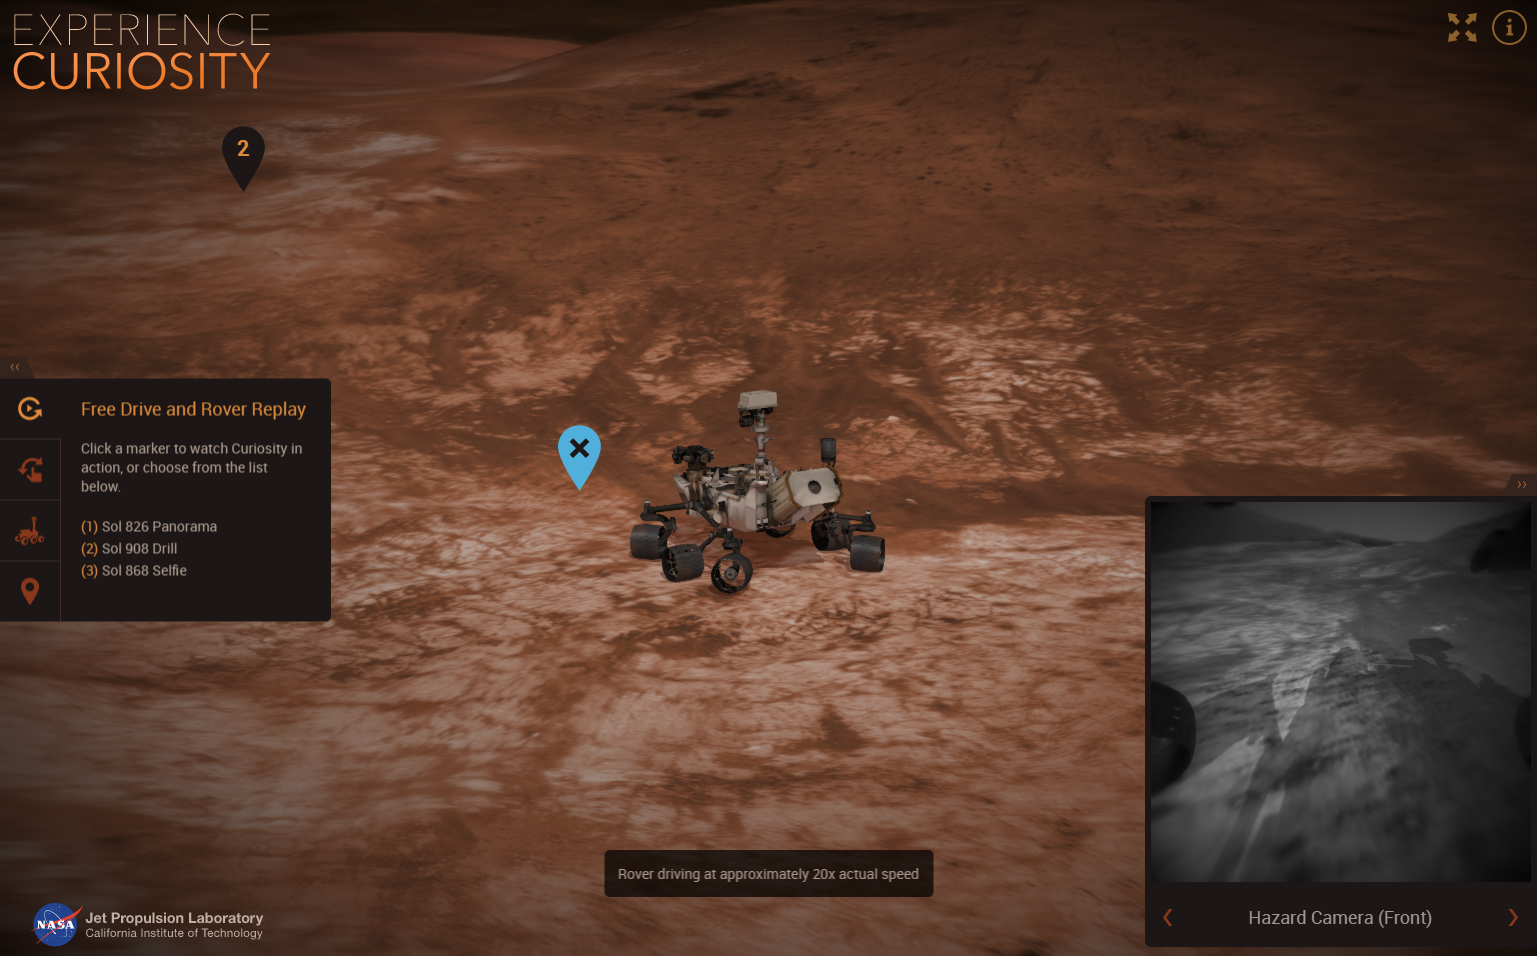
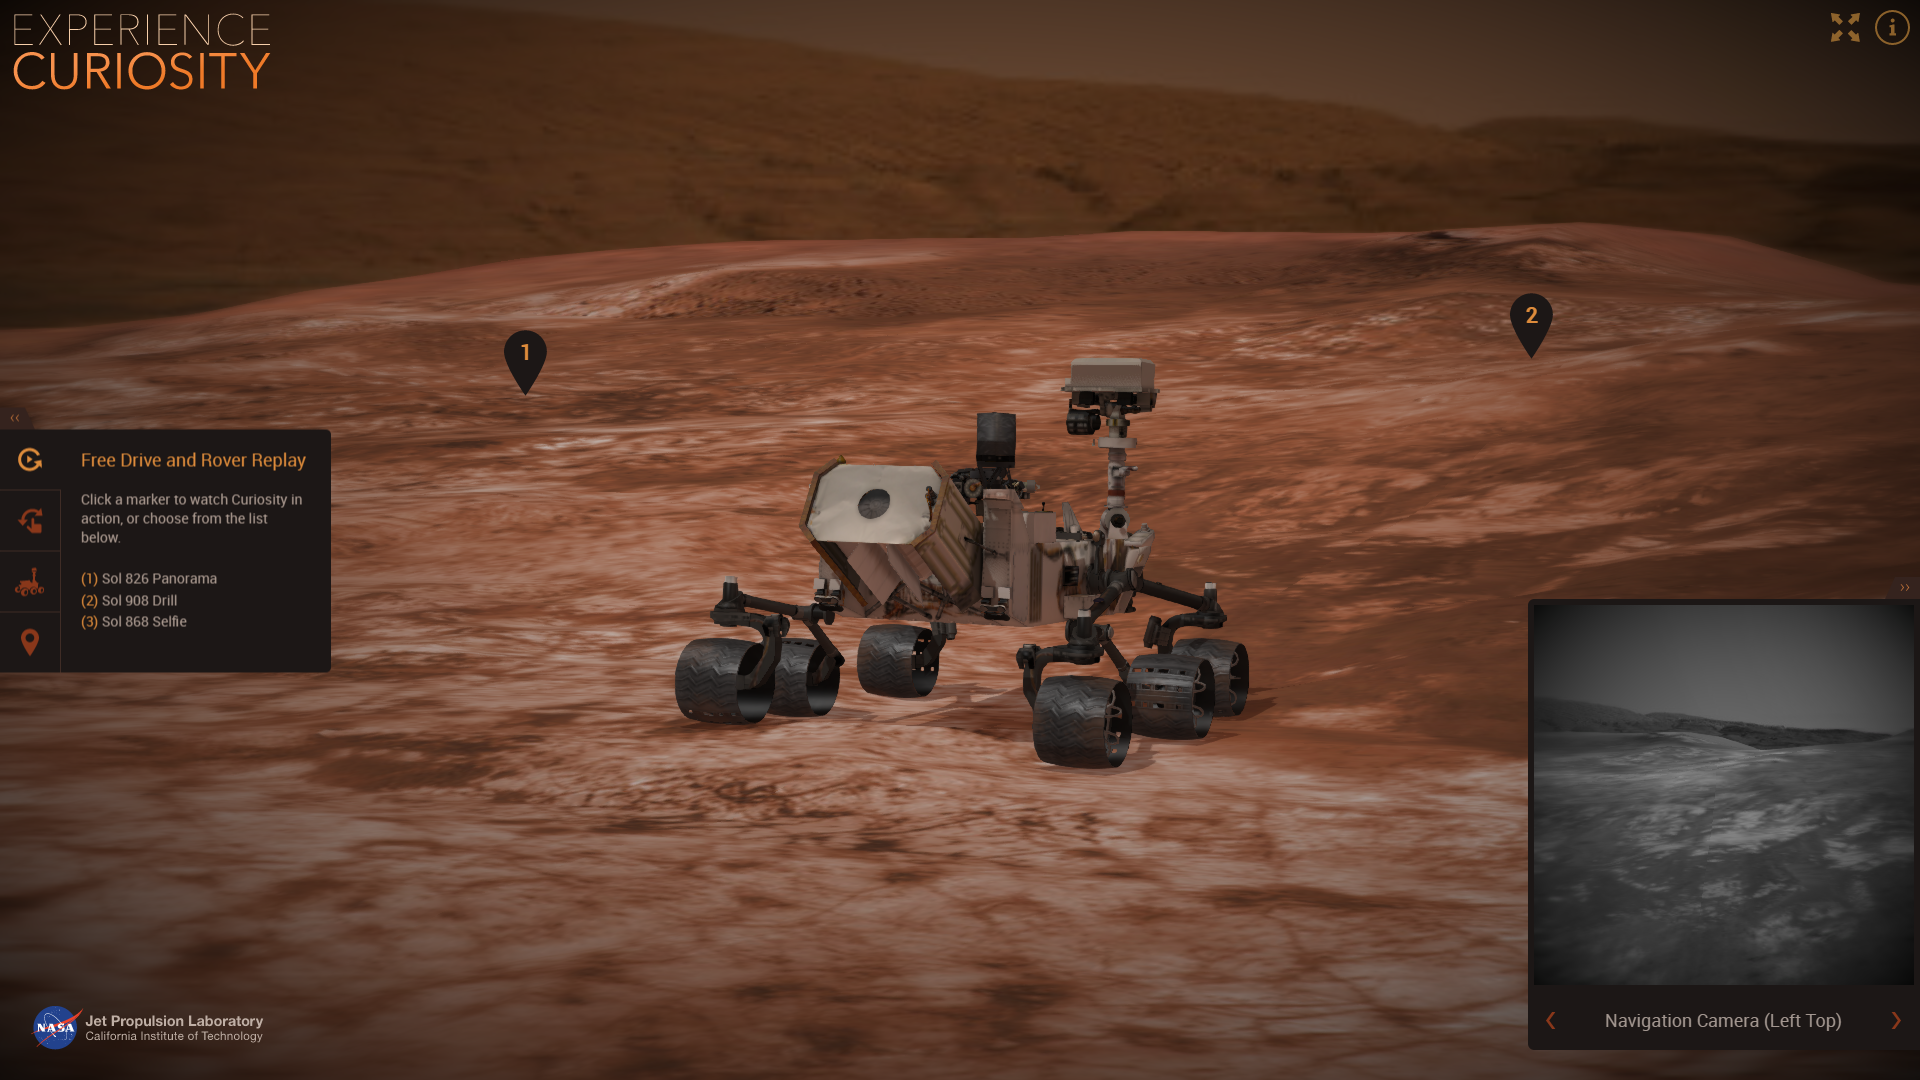
16x9 [2]

diff --git a/index.html b/index.html
@@ -18,6 +18,10 @@
             margin-left: calc(-512px + -56px);
         }
 
+        .progress {
+            clip: rect(0 1138px 8px 0);
+        }
+
         .slide_center {
             display: flex;
             flex-direction: column;
@@ -458,13 +462,13 @@
             
             .hotspot_front {
                 top: 190px;
-                left: 310px;
+                left: 390px;
                 width: 350px;
             }
             
             .hotspot_back {
                 top: 220px;
-                left: 340px;
+                left: 440px;
                 width: 350px;
             }
         </style>
